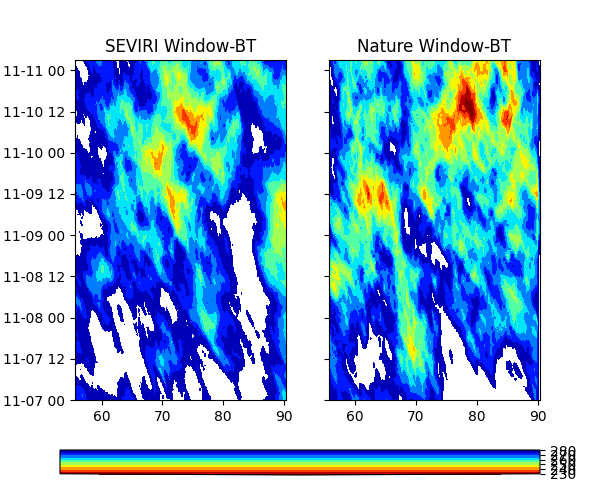
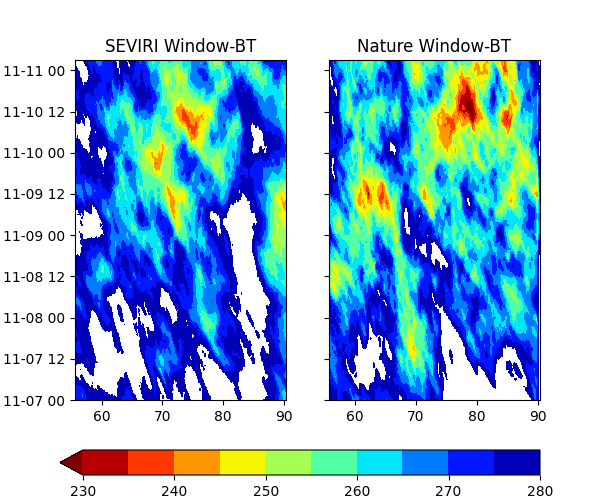
meow

Changed region(s): [[0.09, 0.87, 0.96, 1.0]]

diff --git a/nature_run/validate_nature_run.py b/nature_run/validate_nature_run.py
@@ -173,7 +173,7 @@ axs[1].yaxis.set_ticklabels([])
 # Generate cbar
 fig.subplots_adjust(bottom=0.2)
 cbar_ax = fig.add_axes( [0.1,0.05,0.8,0.05] )
-fig.colorbar( cnf, cax=cbar_ax )
+fig.colorbar( cnf, cax=cbar_ax, orientation = 'horizontal' )
 
 plt.savefig('hovmoller_comparison.png' )
 plt.close()
